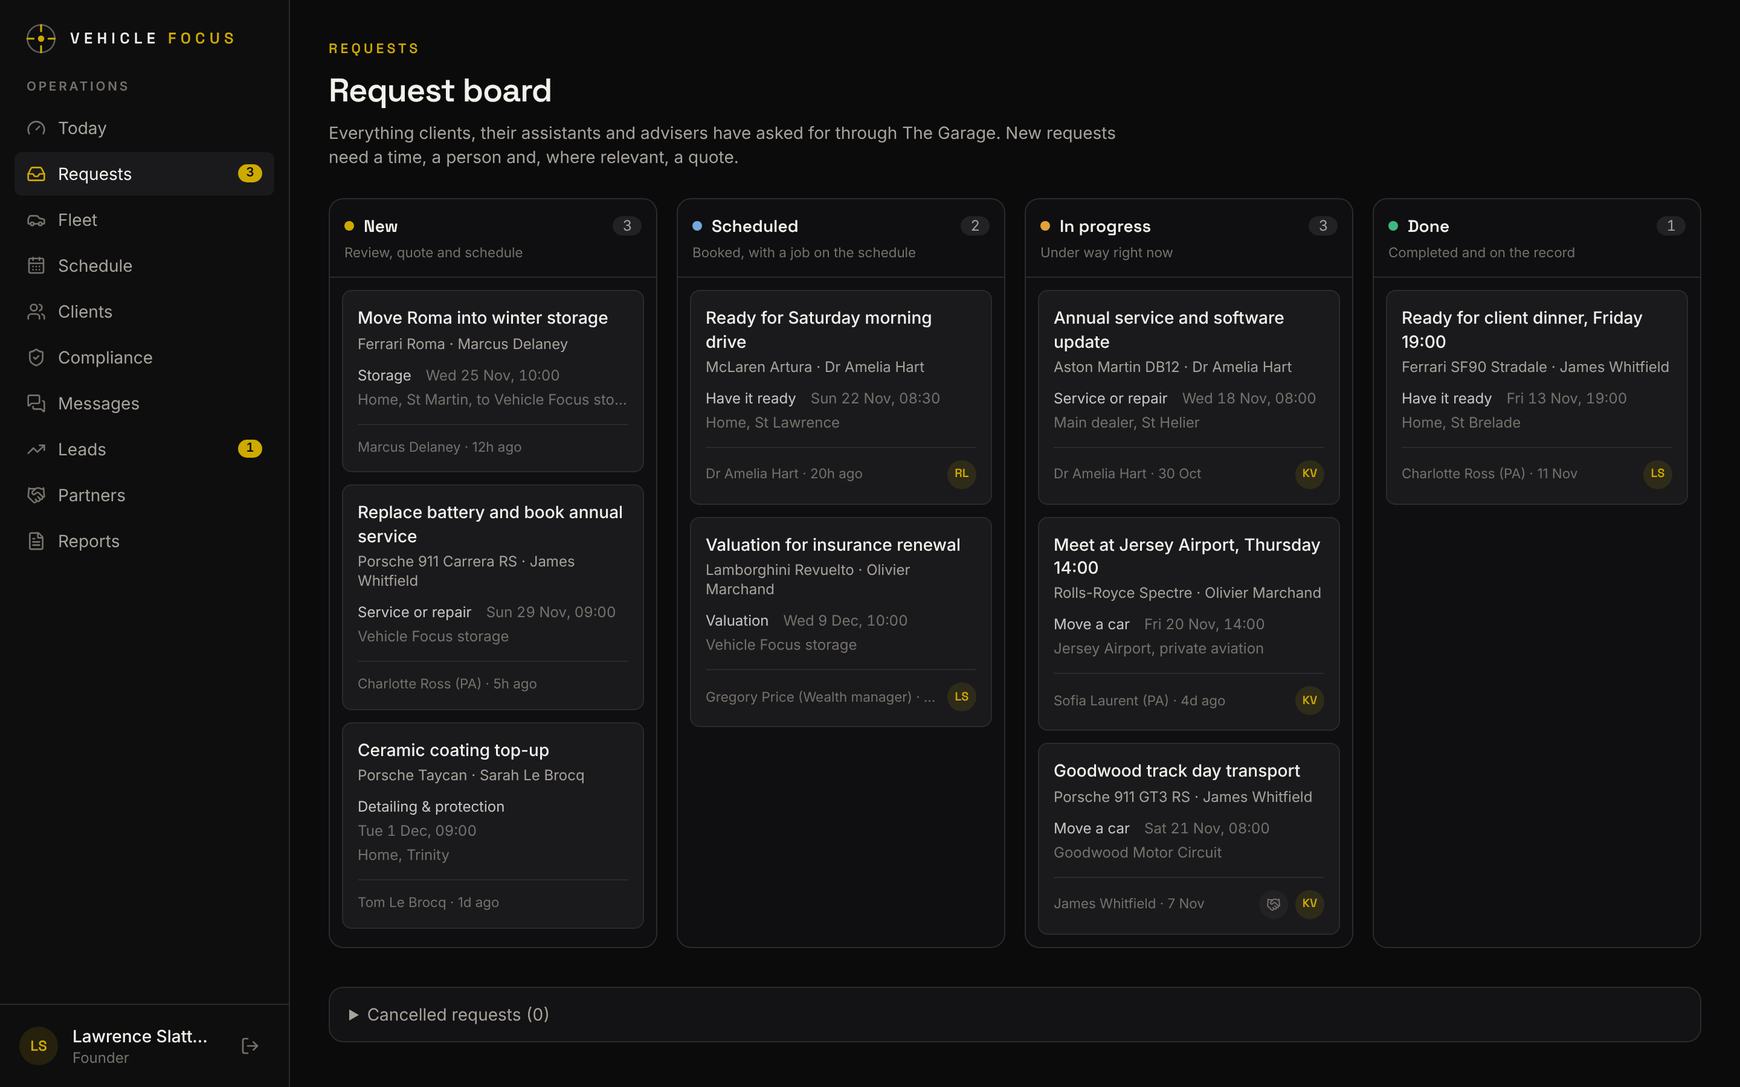
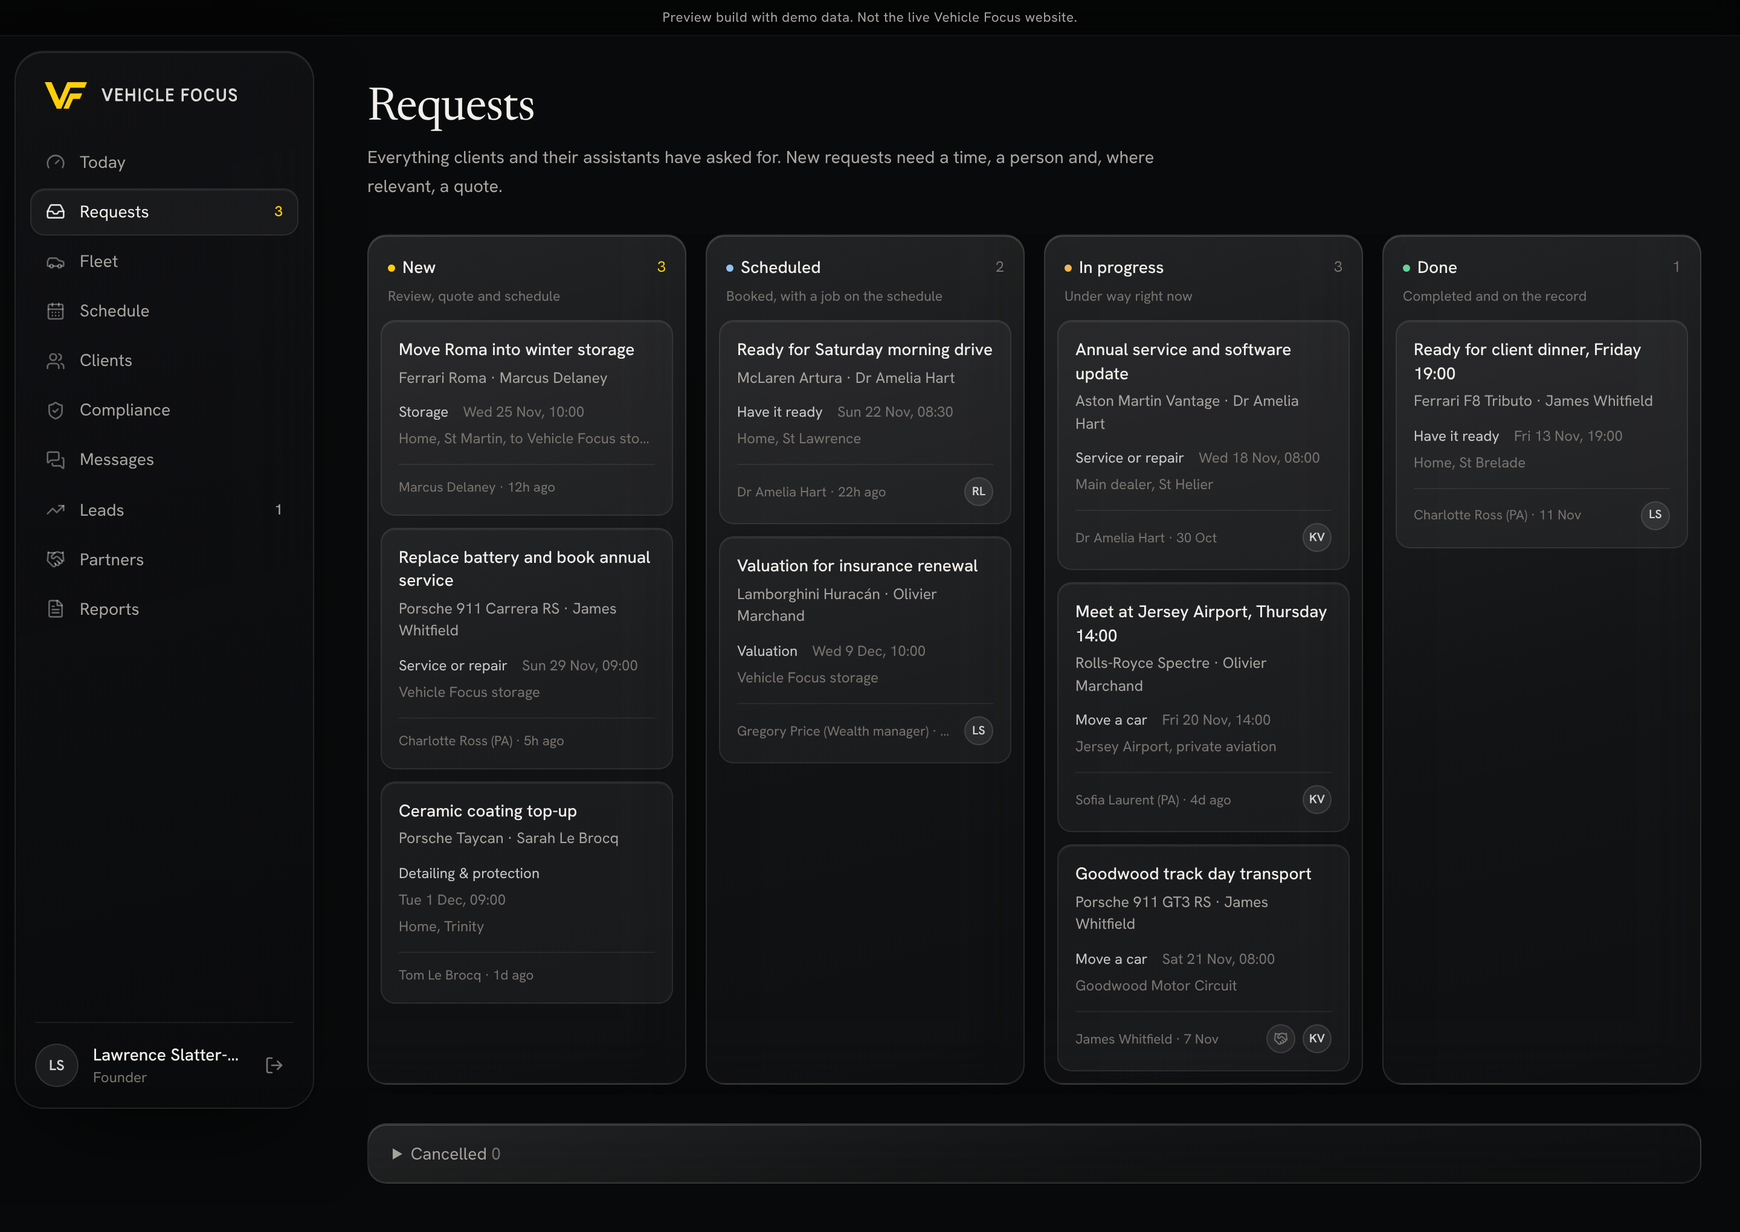
Glass restyle of the public site and console; final screenshots
Website, portal and console now share the smoked-glass system over
Lawrence's own photography. 964 RS recoloured to Rubystone Red so the
paint-finish fallback reads as deliberate.

Claude-Session: https://claude.ai/code/session_011eWu3SG7AF5R1T4iRv4P4v

diff --git a/app/console/reports/[clientId]/page.tsx b/app/console/reports/[clientId]/page.tsx
@@ -1,5 +1,5 @@
 import { notFound } from "next/navigation";
-import { CarArt } from "@/components/brand/car-art";
+import { CarMedia } from "@/components/brand/car-art";
 import { Logo } from "@/components/brand/logo";
 import { BatteryReading, VehicleStatusBadge } from "@/components/vehicle-status";
 import { PageHeader, TierBadge } from "@/components/console/ui";
@@ -51,31 +51,30 @@ export default async function ClientReportPage({ params }: { params: Promise<{ c
       <div className="no-print">
         <PageHeader
           back={{ href: "/console/reports", label: "Reports" }}
-          eyebrow="Monthly report"
-          title={client.name}
-          description="This is what the client receives. Internal notes are excluded."
+          title={`${client.name}, ${formatDate(new Date().toISOString(), { month: "long" })}`}
+          description="Exactly what the client receives. Internal notes are left out."
           actions={<PrintButton />}
         />
       </div>
 
-      <article className="mx-auto max-w-4xl space-y-8 rounded-xl border border-border bg-surface p-6 sm:p-10 print:max-w-none print:rounded-none print:border-0 print:p-0">
+      <article className="glass mx-auto max-w-4xl space-y-10 rounded-[24px] p-6 sm:p-12 print:max-w-none print:rounded-none print:border-0 print:p-0">
         <header className="border-b border-border pb-8">
           <div className="flex items-start justify-between gap-4">
             <Logo href="/console" />
-            <p className="text-right text-xs text-subtle">
+            <p className="text-right text-[0.75rem] text-subtle">
               Private and confidential
               {client.preferences.nda ? <span className="block">Covered by NDA</span> : null}
             </p>
           </div>
           <p className="eyebrow mt-10">Collection report · {month}</p>
-          <h2 className="mt-2 font-display text-3xl font-semibold tracking-tight sm:text-4xl">{client.name}</h2>
+          <h2 className="mt-3 font-display text-4xl font-normal sm:text-5xl">{client.name}</h2>
           <p className="mt-2 text-sm text-muted">
             {formatDate(periodStart)} to {formatDate(now.toISOString())} · <TierBadge tier={client.tier} /> {TIERS[client.tier].cadence.toLowerCase()}
           </p>
         </header>
 
         <section>
-          <h3 className="font-display text-lg font-semibold">Summary</h3>
+          <h3 className="font-display text-[1.45rem] font-normal">Summary</h3>
           <p className="mt-2 text-sm text-muted">
             {vehicles.length === 0
               ? "No cars are currently on the account."
@@ -90,30 +89,28 @@ export default async function ClientReportPage({ params }: { params: Promise<{ c
               { label: "Checks this period", value: String(totalChecks) },
               { label: "Recorded spend", value: formatGBP(totalCost) },
             ].map((k) => (
-              <div key={k.label} className="rounded-lg border border-border bg-surface-2 p-3">
-                <dt className="text-xs text-subtle">{k.label}</dt>
-                <dd className="mt-1 font-display text-xl font-semibold tabular">{k.value}</dd>
+              <div key={k.label} className="rounded-xl border border-border bg-surface-2 p-4">
+                <dt className="text-[0.75rem] text-subtle">{k.label}</dt>
+                <dd className="mt-1.5 font-display text-2xl tabular">{k.value}</dd>
               </div>
             ))}
           </dl>
         </section>
 
         <section>
-          <h3 className="font-display text-lg font-semibold">Car by car</h3>
+          <h3 className="font-display text-[1.45rem] font-normal">Car by car</h3>
           <div className="mt-4 space-y-4">
             {cars.map(({ v, checks, work, cost, lastCheck }) => {
               const trend = valueTrend(v);
               return (
-                <div key={v.id} className="break-inside-avoid rounded-lg border border-border p-4">
+                <div key={v.id} className="break-inside-avoid rounded-xl border border-border p-4">
                   <div className="flex flex-col gap-4 sm:flex-row">
-                    <div className="w-full shrink-0 sm:w-40">
-                      <CarArt bodyStyle={v.bodyStyle} paint={v.paintHex} title={vehicleName(v)} />
-                    </div>
+                    <CarMedia vehicle={v} sizes="(min-width: 640px) 176px, 100vw" className="aspect-[16/10] w-full shrink-0 rounded-lg sm:w-44" />
                     <div className="min-w-0 flex-1">
                       <div className="flex flex-wrap items-start justify-between gap-2">
                         <div>
                           <p className="font-medium">{vehicleFullName(v)}</p>
-                          <p className="text-xs text-subtle">
+                          <p className="text-[0.75rem] text-subtle">
                             {v.registration} · {v.colour} · {formatMiles(v.mileage)}
                           </p>
                         </div>
@@ -122,24 +119,24 @@ export default async function ClientReportPage({ params }: { params: Promise<{ c
                       {v.statusNote ? <p className="mt-2 text-sm text-muted">{v.statusNote}</p> : null}
                       <dl className="mt-3 grid grid-cols-2 gap-3 text-sm sm:grid-cols-4">
                         <div>
-                          <dt className="text-xs text-subtle">Battery</dt>
+                          <dt className="text-[0.75rem] text-subtle">Battery</dt>
                           <dd>
                             <BatteryReading voltage={v.battery.voltage} />
                           </dd>
                         </div>
                         <div>
-                          <dt className="text-xs text-subtle">Tyres</dt>
-                          <dd className={tyreDeviation(v) >= 1 ? "text-warning" : "text-success"}>{tyreDeviation(v) >= 1 ? "Adjust" : "On target"}</dd>
+                          <dt className="text-[0.75rem] text-subtle">Tyres</dt>
+                          <dd className={tyreDeviation(v) >= 1 ? "text-warning" : undefined}>{tyreDeviation(v) >= 1 ? "Adjust" : "On target"}</dd>
                         </div>
                         <div>
-                          <dt className="text-xs text-subtle">Checks</dt>
+                          <dt className="text-[0.75rem] text-subtle">Checks</dt>
                           <dd className="tabular">
                             {checks.length} this period
-                            {lastCheck ? <span className="block text-xs text-subtle">last {relativeDays(lastCheck.at)}</span> : null}
+                            {lastCheck ? <span className="block text-[0.75rem] text-subtle">last {relativeDays(lastCheck.at)}</span> : null}
                           </dd>
                         </div>
                         <div>
-                          <dt className="text-xs text-subtle">Value</dt>
+                          <dt className="text-[0.75rem] text-subtle">Value</dt>
                           <dd className="tabular">
                             {formatGBPCompact(latestValue(v))}
                             <span className={cn("ml-1 text-xs", trend >= 0 ? "text-success" : "text-danger")}>
@@ -150,7 +147,7 @@ export default async function ClientReportPage({ params }: { params: Promise<{ c
                         </div>
                       </dl>
                       <div className="mt-3 border-t border-border pt-3">
-                        <p className="text-xs text-subtle">Work completed{cost ? `, ${formatGBP(cost)}` : ""}</p>
+                        <p className="text-[0.75rem] text-subtle">Work completed{cost ? `, ${formatGBP(cost)}` : ""}</p>
                         {work.length ? (
                           <ul className="mt-1 space-y-1">
                             {work.map((w) => (
@@ -175,8 +172,8 @@ export default async function ClientReportPage({ params }: { params: Promise<{ c
 
         <section className="grid gap-8 sm:grid-cols-2">
           <div className="break-inside-avoid">
-            <h3 className="font-display text-lg font-semibold">Coming up</h3>
-            <p className="text-xs text-subtle">Next 90 days. We handle these, nothing for you to do unless we ask.</p>
+            <h3 className="font-display text-[1.45rem] font-normal">Coming up</h3>
+            <p className="text-[0.75rem] text-subtle">Next 90 days. We handle these, nothing for you to do unless we ask.</p>
             {due.length ? (
               <ul className="mt-3 divide-y divide-border">
                 {due.map((d) => {
@@ -187,7 +184,7 @@ export default async function ClientReportPage({ params }: { params: Promise<{ c
                         <p className="text-sm">
                           {d.kind}, {v ? vehicleName(v) : ""}
                         </p>
-                        {d.notes ? <p className="text-xs text-subtle">{d.notes}</p> : null}
+                        {d.notes ? <p className="text-[0.75rem] text-subtle">{d.notes}</p> : null}
                       </div>
                       <p className="shrink-0 text-sm tabular text-muted">{formatDate(d.dueDate, { day: "numeric", month: "short" })}</p>
                     </li>
@@ -199,8 +196,8 @@ export default async function ClientReportPage({ params }: { params: Promise<{ c
             )}
           </div>
           <div className="break-inside-avoid">
-            <h3 className="font-display text-lg font-semibold">Requests handled</h3>
-            <p className="text-xs text-subtle">Raised by you or your team this period.</p>
+            <h3 className="font-display text-[1.45rem] font-normal">Requests handled</h3>
+            <p className="text-[0.75rem] text-subtle">Raised by you or your team this period.</p>
             {handled.length ? (
               <ul className="mt-3 divide-y divide-border">
                 {handled.map((r) => {
@@ -209,7 +206,7 @@ export default async function ClientReportPage({ params }: { params: Promise<{ c
                     <li key={r.id} className="flex items-start justify-between gap-3 py-2">
                       <div>
                         <p className="text-sm">{r.title}</p>
-                        <p className="text-xs text-subtle">
+                        <p className="text-[0.75rem] text-subtle">
                           {REQUEST_TYPE_META[r.type].label} · {v ? vehicleName(v) : ""} · {r.createdBy}
                         </p>
                       </div>
@@ -224,7 +221,7 @@ export default async function ClientReportPage({ params }: { params: Promise<{ c
           </div>
         </section>
 
-        <footer className="border-t border-border pt-6 text-xs text-subtle">
+        <footer className="border-t border-border pt-6 text-[0.75rem] text-subtle">
           Prepared by Vehicle Focus Automotive Concierge. Questions about anything in this report: reply in The Garage or call +44 7797 738888.
         </footer>
       </article>

diff --git a/app/console/partners/page.tsx b/app/console/partners/page.tsx
@@ -1,5 +1,4 @@
 import { Handshake, Mail, Phone } from "lucide-react";
-import { Badge } from "@/components/ui/badge";
 import { EmptyState, PageHeader, Stars } from "@/components/console/ui";
 import { getPartners, getRequests } from "@/lib/data/queries";
 import type { Partner } from "@/lib/types";
@@ -16,43 +15,42 @@ export default async function PartnersPage() {
   return (
     <>
       <PageHeader
-        eyebrow="Partners"
-        title="Associates and specialists"
-        description="The trusted network behind the service: transporters, detailers, workshops, storage and inspectors across the Islands, the UK and Europe. If we can't do it properly, we find who can."
+        title="Partners"
+        description="The specialists behind the service: transport, detailing, workshops, storage and inspection across the Islands, the UK and Europe."
       />
 
       {regions.length ? (
         <div className="space-y-8">
           {regions.map((g) => (
             <section key={g.region}>
-              <div className="mb-3 flex items-baseline gap-2">
-                <h2 className="font-display text-base font-semibold">{g.region}</h2>
-                <span className="text-xs text-subtle">
+              <div className="mb-3 flex items-baseline gap-3">
+                <h2 className="font-display text-[1.4rem] font-normal">{g.region}</h2>
+                <span className="text-[0.78rem] text-subtle">
                   {g.list.length} {g.list.length === 1 ? "partner" : "partners"}
                 </span>
               </div>
               <div className="grid gap-3 sm:grid-cols-2 xl:grid-cols-3">
                 {g.list.map((p) => (
-                  <article key={p.id} className="flex flex-col rounded-xl border border-border bg-surface p-4">
+                  <article key={p.id} className="glass flex flex-col rounded-2xl p-5">
                     <div className="flex items-start justify-between gap-2">
                       <div className="min-w-0">
                         <h3 className="font-medium">{p.name}</h3>
-                        <p className="text-xs text-muted">{p.contactName}</p>
+                        <p className="text-[0.78rem] text-muted">{p.contactName}</p>
                       </div>
-                      <Badge tone="neutral">{p.kind}</Badge>
+                      <span className="shrink-0 rounded-full border border-white/10 px-2 py-[2px] text-[0.7rem] text-muted">{p.kind}</span>
                     </div>
                     <div className="mt-2 flex items-center gap-2">
                       <Stars rating={p.rating} />
-                      <span className="text-xs text-subtle">
+                      <span className="text-[0.75rem] text-subtle">
                         {jobsFor(p.id)} {jobsFor(p.id) === 1 ? "request" : "requests"} on record
                       </span>
                     </div>
-                    {p.notes ? <p className="mt-3 text-sm text-muted">{p.notes}</p> : null}
-                    <div className="mt-auto flex flex-wrap gap-x-4 gap-y-1 pt-4 text-xs">
-                      <a href={`mailto:${p.email}`} className="inline-flex items-center gap-1.5 text-muted hover:text-gold">
+                    {p.notes ? <p className="mt-3 mb-4 text-sm text-muted">{p.notes}</p> : <div className="mb-4" />}
+                    <div className="mt-auto flex flex-wrap gap-x-4 gap-y-1 border-t border-white/[0.06] pt-3.5 text-[0.78rem]">
+                      <a href={`mailto:${p.email}`} className="inline-flex items-center gap-1.5 text-muted hover:text-text">
                         <Mail className="size-3.5" /> {p.email}
                       </a>
-                      <a href={`tel:${p.phone.replace(/\s/g, "")}`} className="inline-flex items-center gap-1.5 text-muted hover:text-gold">
+                      <a href={`tel:${p.phone.replace(/\s/g, "")}`} className="inline-flex items-center gap-1.5 text-muted hover:text-text">
                         <Phone className="size-3.5" /> {p.phone}
                       </a>
                     </div>

diff --git a/app/console/clients/[id]/page.tsx b/app/console/clients/[id]/page.tsx
@@ -73,22 +73,22 @@ export default async function ClientPage({ params }: { params: Promise<{ id: str
                     >
                       <CarMedia vehicle={v} sizes="(min-width: 1280px) 420px, (min-width: 640px) 50vw, 100vw" className="aspect-[16/9] w-full" />
                       <div className="p-3.5">
-                      <div className="flex items-start justify-between gap-2">
-                        <div className="min-w-0">
-                          <p className="truncate text-sm font-medium decoration-white/30 underline-offset-4 group-hover:underline">{vehicleName(v)}</p>
-                          <p className="text-[0.75rem] text-subtle">
-                            {v.year} · {v.registration}
-                          </p>
+                        <div className="flex items-start justify-between gap-2">
+                          <div className="min-w-0">
+                            <p className="truncate text-sm font-medium decoration-white/30 underline-offset-4 group-hover:underline">{vehicleName(v)}</p>
+                            <p className="text-[0.75rem] text-subtle">
+                              {v.year} · {v.registration}
+                            </p>
+                          </div>
+                          <VehicleStatusBadge status={v.status} />
                         </div>
-                        <VehicleStatusBadge status={v.status} />
-                      </div>
-                      <div className="mt-2.5 flex items-center justify-between text-[0.78rem] text-muted">
-                        <BatteryReading voltage={v.battery.voltage} />
-                        <span className="tabular">{formatGBPCompact(latestValue(v))}</span>
-                      </div>
-                      <p className="mt-1.5 truncate text-[0.75rem] text-subtle">
-                        {v.location.name} · next check {relativeDays(v.nextCheckAt)}
-                      </p>
+                        <div className="mt-2.5 flex items-center justify-between text-[0.78rem] text-muted">
+                          <BatteryReading voltage={v.battery.voltage} />
+                          <span className="tabular">{formatGBPCompact(latestValue(v))}</span>
+                        </div>
+                        <p className="mt-1.5 truncate text-[0.75rem] text-subtle">
+                          {v.location.name} · next check {relativeDays(v.nextCheckAt)}
+                        </p>
                       </div>
                     </Link>
                   </li>

diff --git a/app/console/reports/page.tsx b/app/console/reports/page.tsx
@@ -14,9 +14,8 @@ export default async function ReportsPage() {
   return (
     <>
       <PageHeader
-        eyebrow="Reports"
-        title="Monthly collection reports"
-        description={`One report per client for ${month}: condition of every car, work completed, costs and what's coming up. Print or save as PDF and send, or let clients read it in The Garage.`}
+        title="Reports"
+        description={`One report per client for ${month}: the condition of every car, work done, costs and what's next. Print or save as PDF.`}
       />
 
       {lookups.clients.length ? (
@@ -25,19 +24,19 @@ export default async function ReportsPage() {
             const cars = lookups.vehicles.filter((v) => v.clientId === c.id);
             const value = cars.reduce((s, v) => s + latestValue(v), 0);
             return (
-              <article key={c.id} className="flex flex-col rounded-xl border border-border bg-surface p-4">
+              <article key={c.id} className="glass flex flex-col rounded-2xl p-5">
                 <div className="flex items-start justify-between gap-2">
                   <div>
                     <h2 className="font-medium">{c.name}</h2>
-                    <p className="text-xs text-muted">{c.homeBase}</p>
+                    <p className="text-[0.78rem] text-muted">{c.homeBase}</p>
                   </div>
                   <TierBadge tier={c.tier} />
                 </div>
                 <p className="mt-3 text-sm text-muted">
                   {cars.length} {cars.length === 1 ? "car" : "cars"} · {formatGBPCompact(value)}
                 </p>
-                <div className="mt-4">
-                  <ButtonLink href={`/console/reports/${c.id}`} variant="outline" size="sm">
+                <div className="mt-auto pt-5">
+                  <ButtonLink href={`/console/reports/${c.id}`} variant="secondary" size="sm">
                     <FileText /> Open {month} report
                   </ButtonLink>
                 </div>

diff --git a/components/site/blocks.tsx b/components/site/blocks.tsx
@@ -52,7 +52,7 @@ export function ServiceList({ group, detailed = false }: { group: ServiceGroup; 
   return (
     <ol className="divide-y divide-white/[0.08] border-y border-white/[0.08]">
       {group.services.map((s) => (
-        <li key={s.number} className={cn("grid gap-x-8 gap-y-3 py-6", detailed ? "sm:grid-cols-[3rem_1fr]" : "grid-cols-[2.5rem_1fr]")}>
+        <li key={s.number} className={cn("grid gap-x-8 gap-y-3 py-6", detailed ? "grid-cols-[2.5rem_1fr] sm:grid-cols-[3rem_1fr]" : "grid-cols-[2.5rem_1fr]")}>
           <span className="pt-0.5 text-sm text-white/35 tabular">{s.number}</span>
           <div>
             <h3 className="text-[1.05rem] font-semibold tracking-tight">{s.title}</h3>

diff --git a/components/site/garage-mock.tsx b/components/site/garage-mock.tsx
@@ -56,8 +56,8 @@ export const MOCK_CARS: MockCar[] = [
     make: "Porsche",
     model: "911 Carrera RS",
     detail: "1992 · 964 Lightweight",
-    colour: "Grand Prix White",
-    paintHex: "#e9e6dc",
+    colour: "Rubystone Red",
+    paintHex: "#b8235f",
     status: "attention",
     voltage: 12.1,
     location: "Vehicle Focus storage",

diff --git a/lib/data/seed.ts b/lib/data/seed.ts
@@ -222,8 +222,8 @@ export const vehicles: Vehicle[] = [
     model: "911 Carrera RS",
     variant: "964 Lightweight",
     year: 1992,
-    colour: "Grand Prix White",
-    paintHex: "#e9e6dc",
+    colour: "Rubystone Red",
+    paintHex: "#b8235f",
     registration: "J 1992",
     vinLast6: "490712",
     bodyStyle: "coupe",

diff --git a/app/console/requests/[id]/page.tsx b/app/console/requests/[id]/page.tsx
@@ -1,4 +1,3 @@
-import Link from "next/link";
 import { notFound } from "next/navigation";
 import { Ban, Check, Lock, MapPin, Play, RotateCcw, CalendarDays } from "lucide-react";
 import { Button } from "@/components/ui/button";
